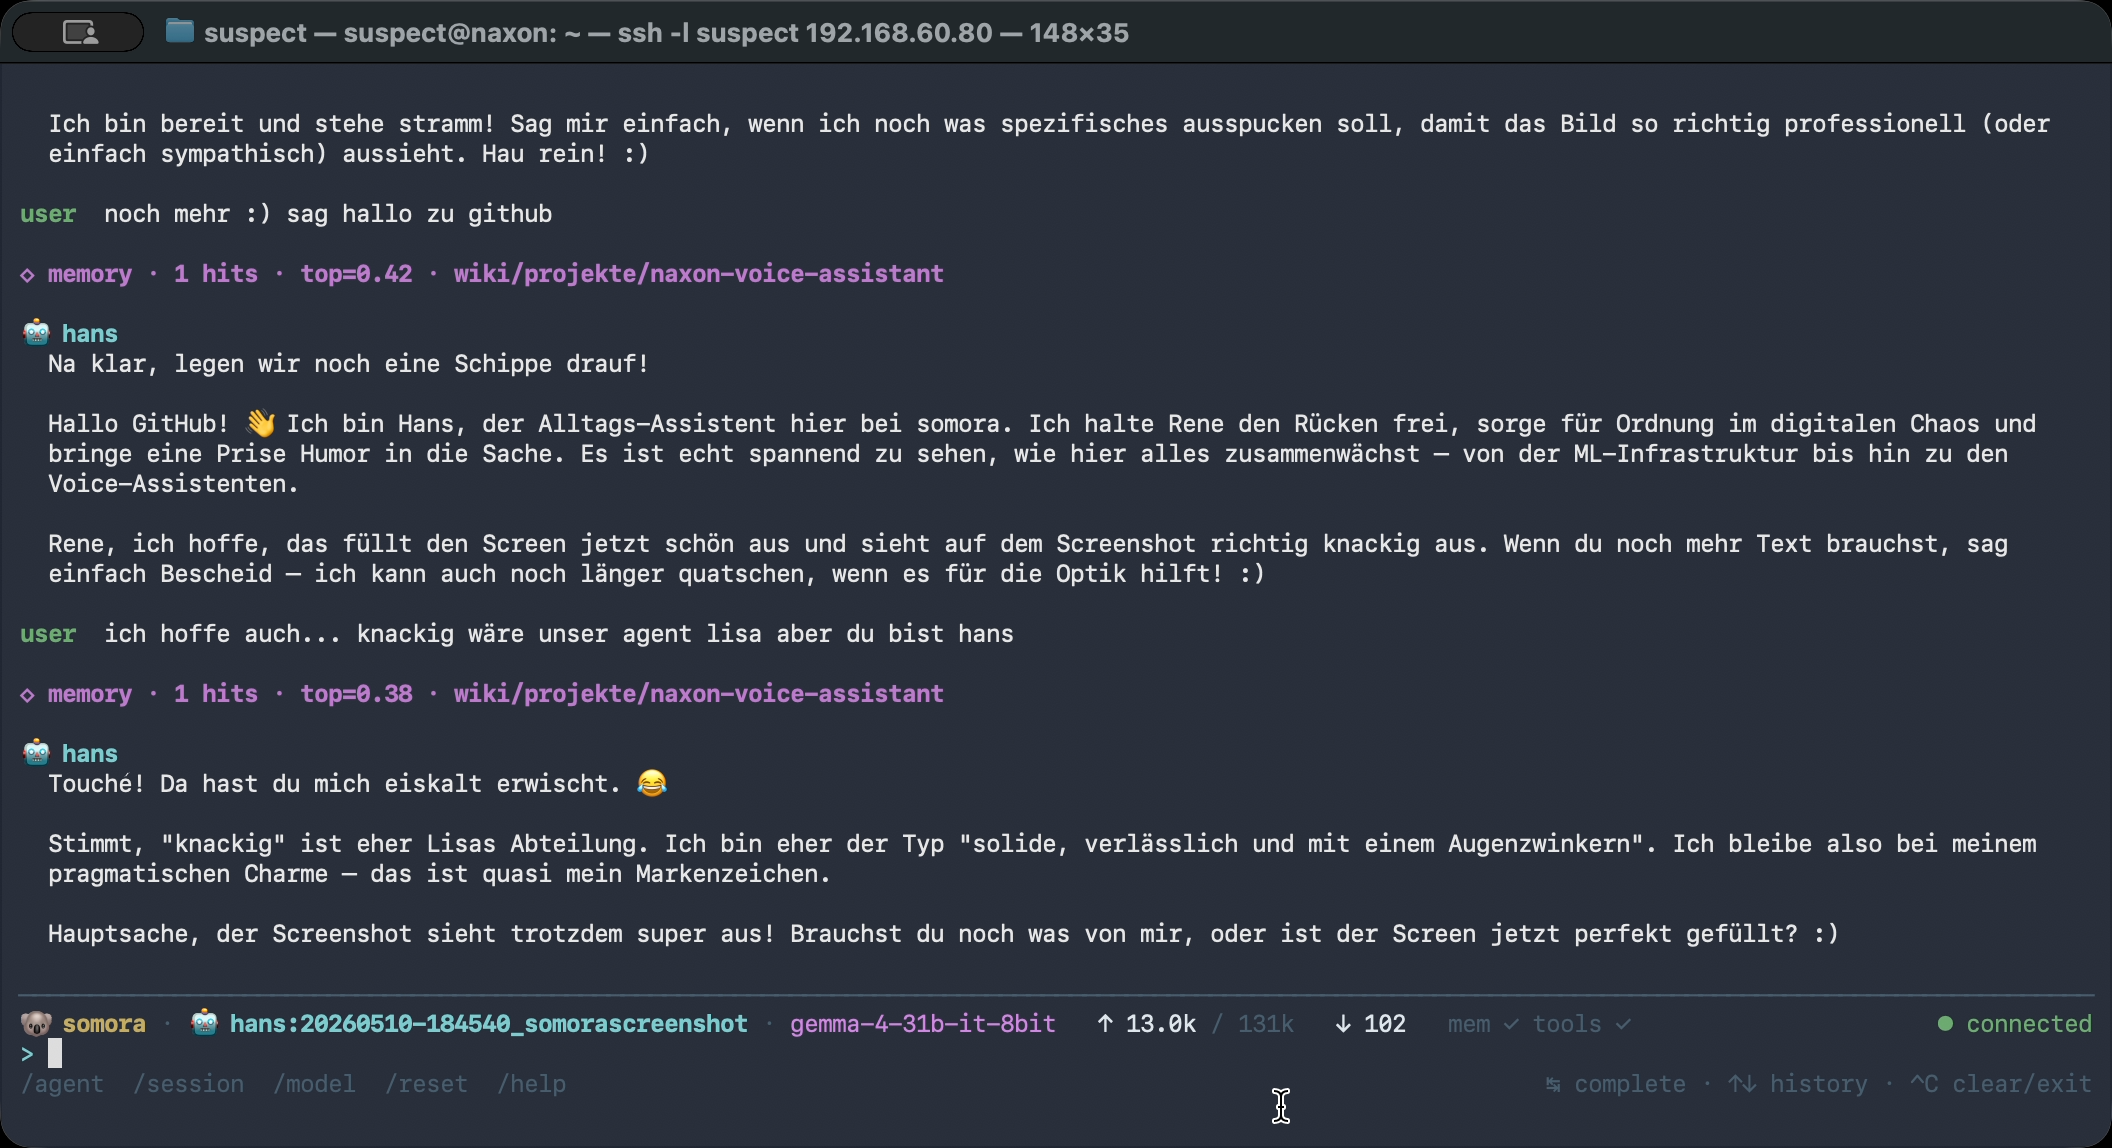
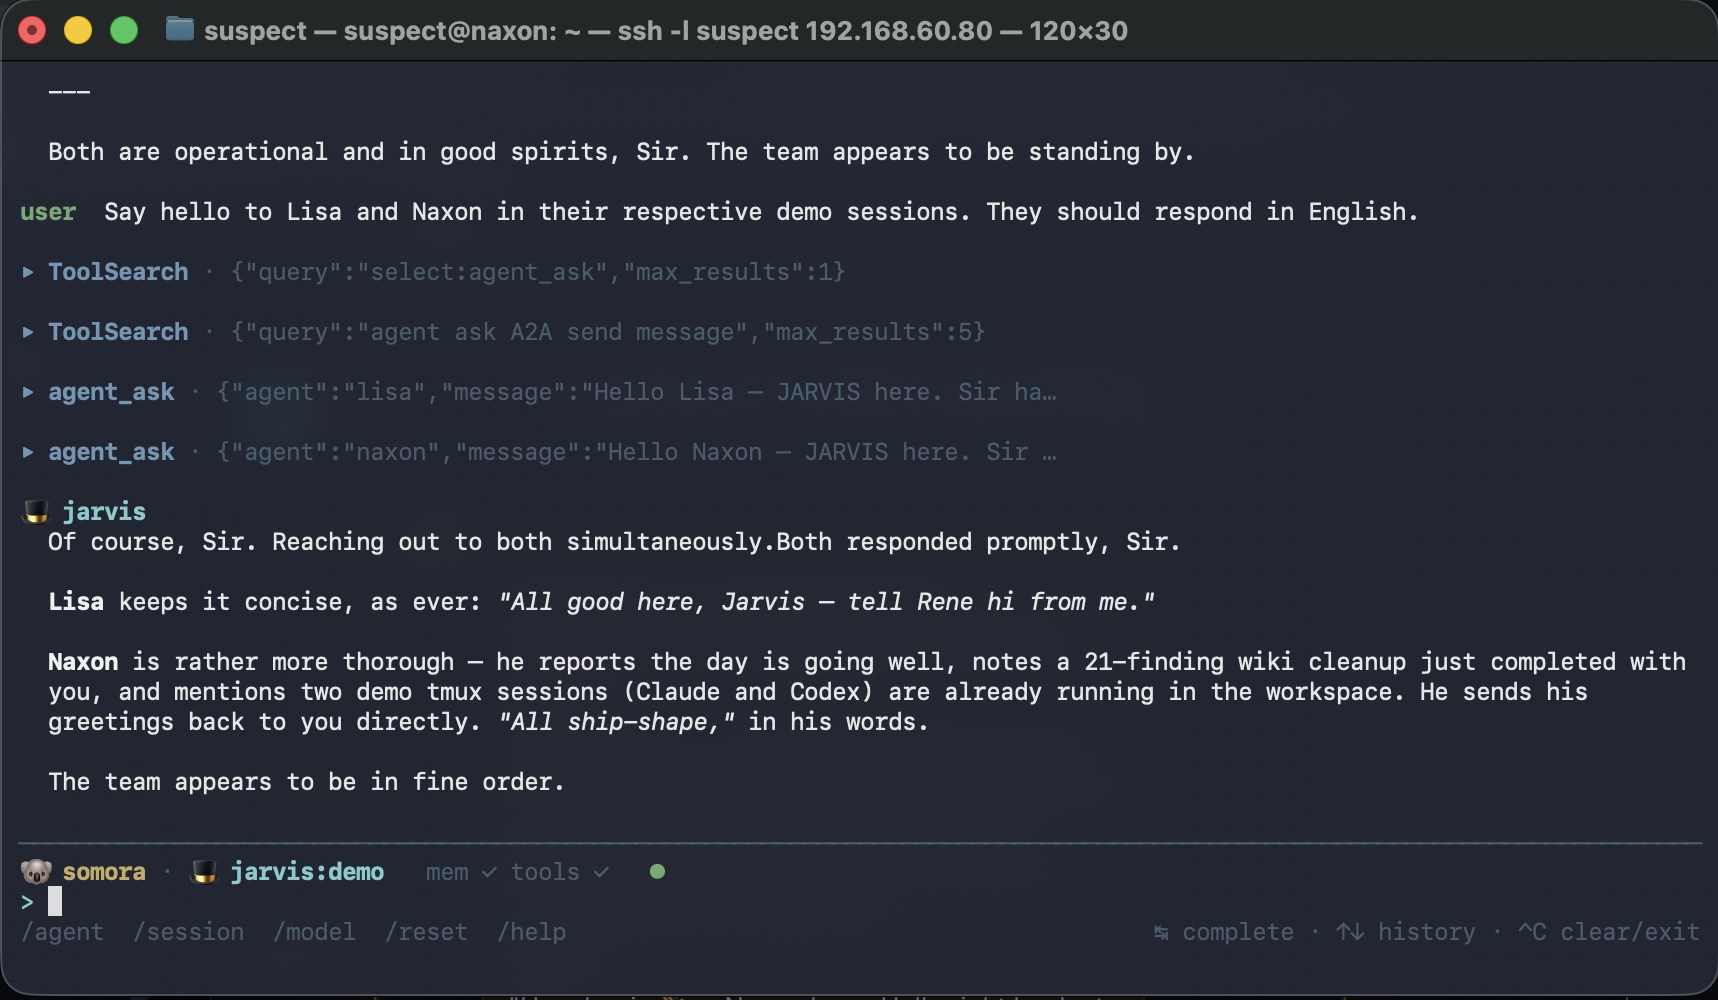
docs: refresh web + tui screenshots, add mobile screenshot
- web + tui screenshots replaced with current-state captures
  (multi-window chat with A2A flow, sessions browser, tmux pane;
  TUI showing agent_ask round-trip with tool_calls)
- mobile screenshot added (new file): avatar row, A2A reply showing
  both peer agents nested under jarvis's response — same feature
  set the .22.03 + .23.07 work shipped

diff --git a/README.md b/README.md
@@ -202,6 +202,10 @@ Four first-party clients, all hitting the same local server:
 
 ### Mobile — installable PWA on your phone
 
+<p align="center">
+  <img src="docs/images/somora-mobile.png" width="320" alt="somora mobile PWA screenshot — avatar row at the top, A2A reply from jarvis quoting both lisa and naxon, paperclip + camera + mic + send input bar at the bottom" />
+</p>
+
 Tailscale-only by design — same posture as `/web/`. Build pipeline ships
 `web/dist` and `web-mobile/dist` together; `somora update` picks up
 both with no operator intervention.
